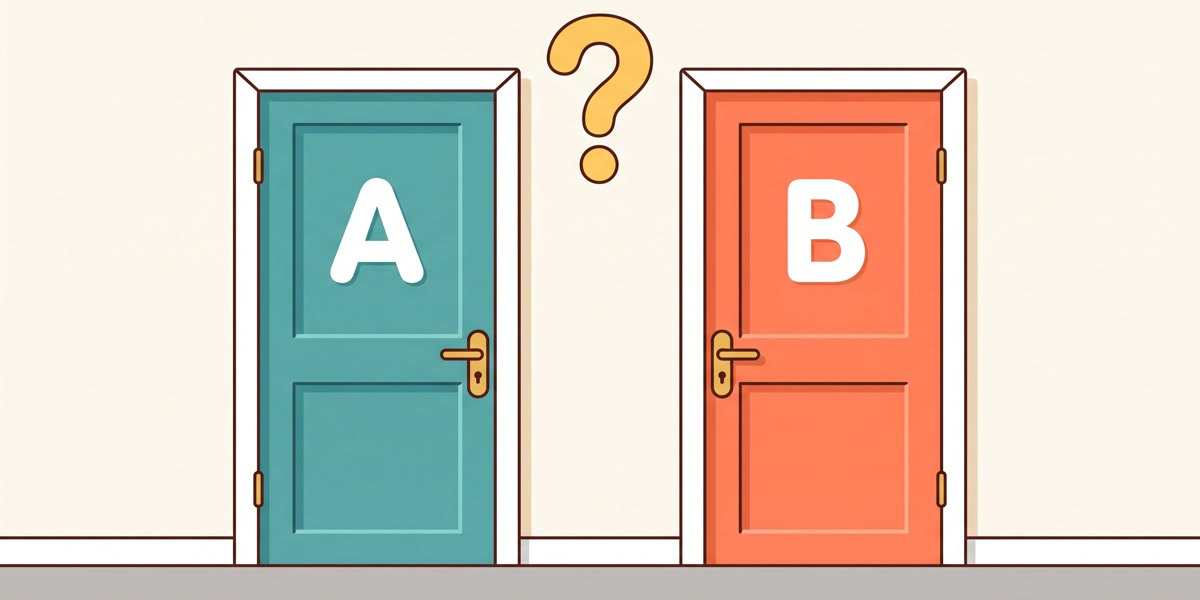
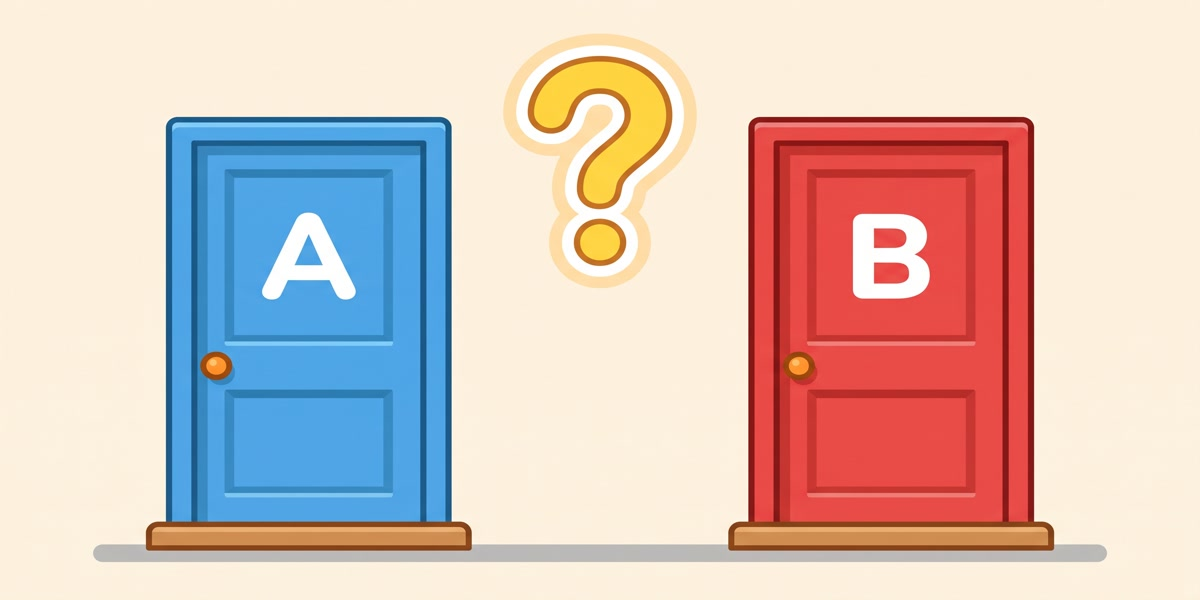
Factory run 614361f9: Generate the title picture images/hero.jpg

diff --git a/.conductor/audit-anchor.md b/.conductor/audit-anchor.md
@@ -12,23 +12,23 @@ path is reserved, and a push whose payload contains it is refused.
 ## The anchor
 
 ```
-chain head sequence      49305
-chain head hash          71a934eb2dd5c09d8116dad4b3f1f7431fe9f2682e97f90988f06ec99b396a40
-head row written at      2026-09-28T11:51:36.763Z
+chain head sequence      49442
+chain head hash          45c67e8e23a9722f1b90e443a0e01f7e8ecaace027be8b0d5de097fa127e258d
+head row written at      2026-09-28T12:11:36.852Z
 chain genesis at         2026-06-26T10:52:06.958Z
-published at             2026-09-28T11:51:41.661Z
+published at             2026-09-28T12:11:42.147Z
 published into           Rastamasta1/test1
-carried by intent        e21de097-2331-4a22-a9cd-a99fdce3b433
+carried by intent        f94312ac-581d-4e05-884f-99060c857337
 cockpit build            ebfb4bac
 ```
 
 ## The previous anchor, so a gap is visible
 
 ```
-previous head sequence   48115
-previous head hash       38b2ab40a43221eca5446a22748c200aad21cb9b11b685a8569aa32cc91aa7e0
-previous published at    2026-09-25T19:59:21.794Z
-audit rows added since   1190
+previous head sequence   49305
+previous head hash       71a934eb2dd5c09d8116dad4b3f1f7431fe9f2682e97f90988f06ec99b396a40
+previous published at    2026-09-28T11:51:46.251Z
+audit rows added since   137
 ```
 
 Consecutive anchors form their own chain inside this repository. If the
@@ -38,14 +38,14 @@ anchor is in this file's git history — `git log .conductor/audit-anchor.md`.
 
 ## What this proves
 
-- Every audit row up to sequence 49305 hashes, in order, to the head
+- Every audit row up to sequence 49442 hashes, in order, to the head
   hash above. Each row's hash covers the previous row's hash, so the
   sequence cannot be reordered, and no row can be removed from the middle
   without the following hashes disagreeing.
 - This file is committed to this repository, so the hash above existed at
   this commit's date — a date recorded in this repository's history, which
   Atrytone does not administer and cannot rewrite.
-- Therefore any later edit to any audit row at or below sequence 49305
+- Therefore any later edit to any audit row at or below sequence 49442
   makes Atrytone's recomputed head disagree with the hash committed here,
   and the disagreement is detectable by anyone holding this file.
 
@@ -75,6 +75,6 @@ anchor is in this file's git history — `git log .conductor/audit-anchor.md`.
 2. Ask Atrytone to recompute the chain over the same range. Its
    `verify_audit_chain()` walks every row in sequence order, recomputing
    each row's hash from the row's own contents and the previous hash.
-3. The head it produces for sequence 49305 must equal the hash above.
+3. The head it produces for sequence 49442 must equal the hash above.
    If it does not, something at or below that sequence changed after this
    commit was made.
